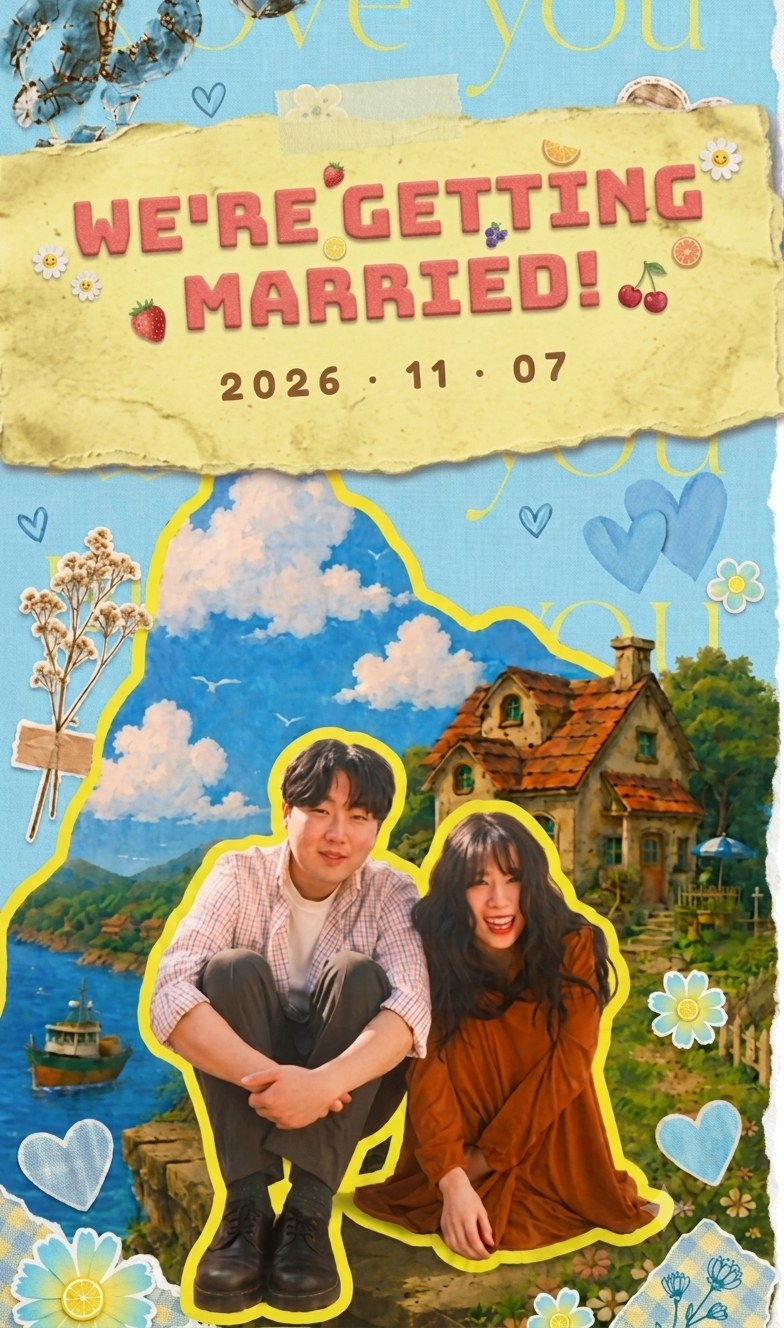
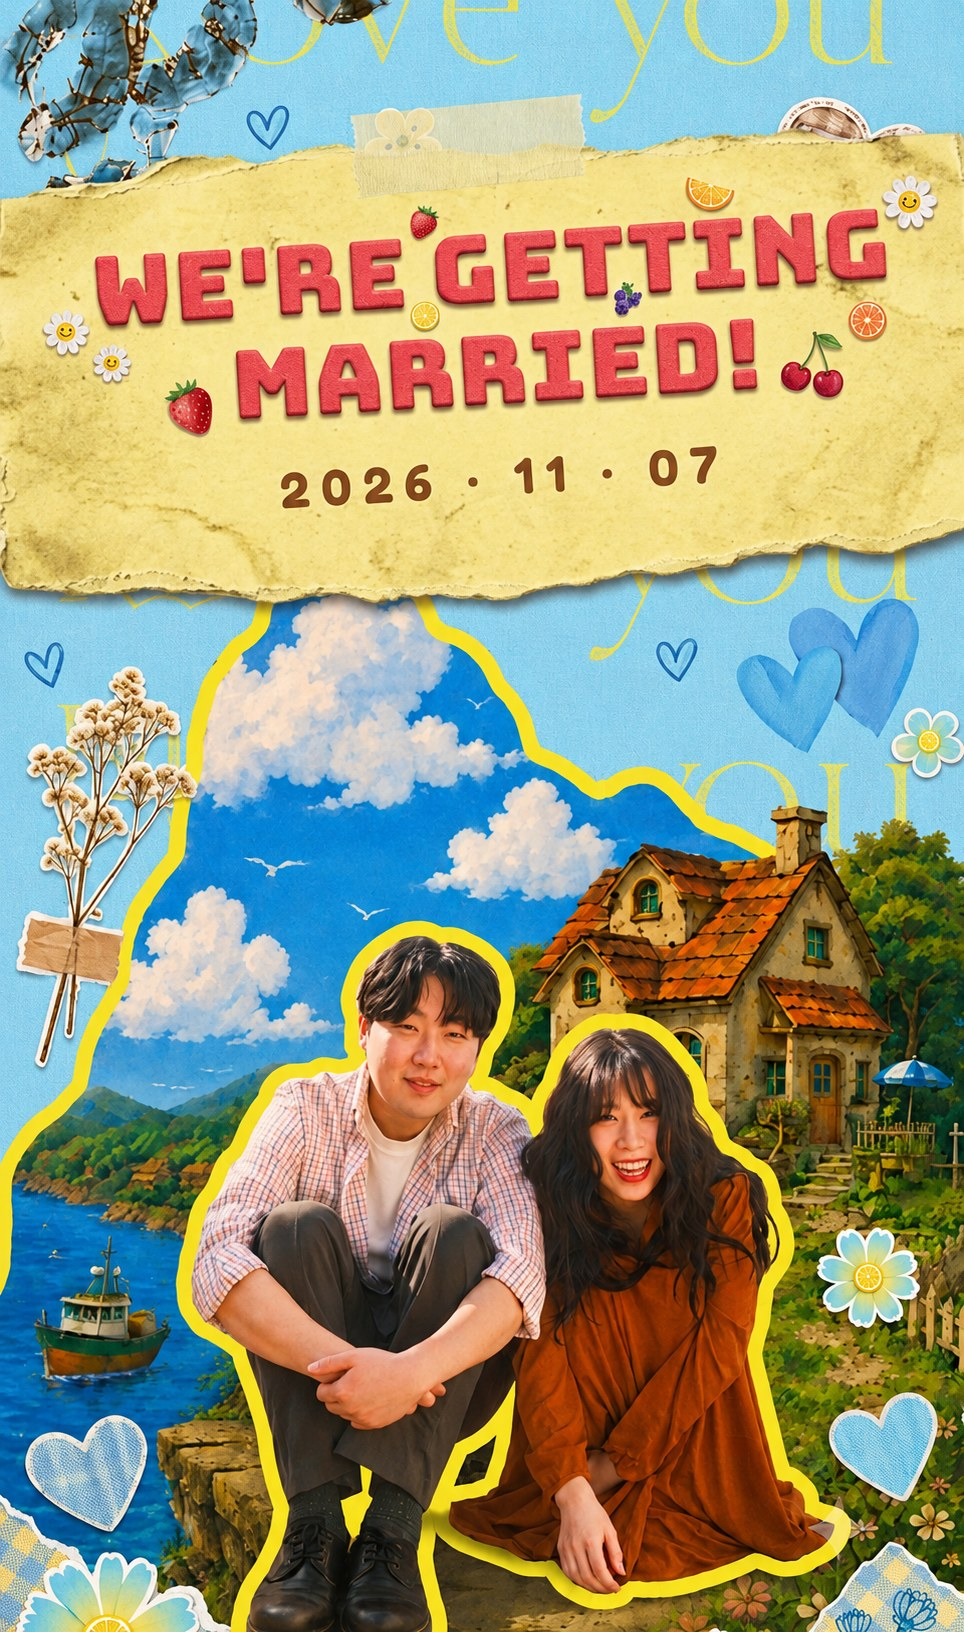
헤더 이미지 리마스터본으로 교체
- headerimg_2_remaster → header.jpg(964×1632, 426KB)로 최적화 교체
- img 크기 속성 갱신, 구 headerimg_2.png 정리

diff --git a/index.html b/index.html
@@ -44,7 +44,7 @@
 
     <!-- ============== HERO ============== -->
     <section class="hero" aria-label="청첩장 메인">
-      <img class="hero-collage" src="images/header.jpg" alt="한태현 옥정미 결혼 - We're Getting Married" fetchpriority="high" width="784" height="1328">
+      <img class="hero-collage" src="images/header.jpg" alt="한태현 옥정미 결혼 - We're Getting Married" fetchpriority="high" width="964" height="1632">
 
       <div class="hero-foot">
         <h1 class="hero-names">